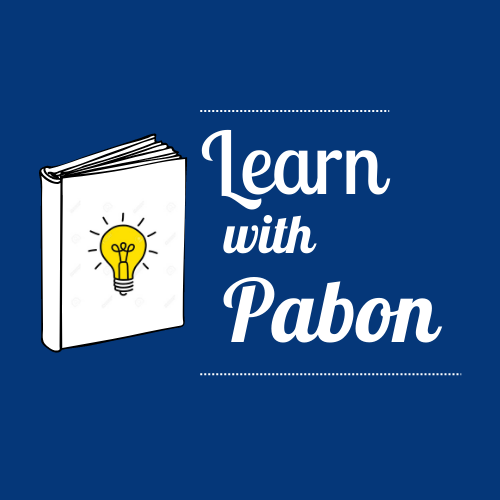
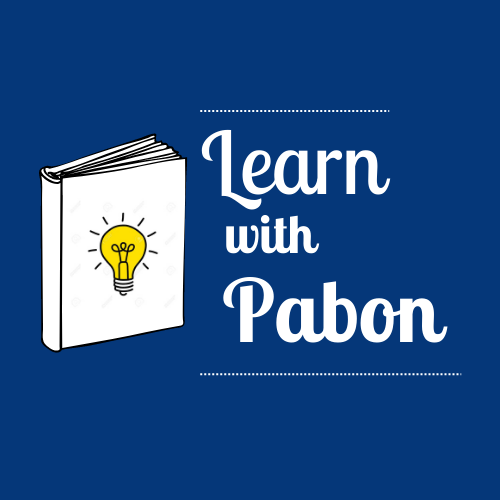
learning website

Changed region(s): [[0.45, 0.54, 0.9, 0.69], [0.45, 0.42, 0.66, 0.51]]

diff --git a/index.html b/index.html
@@ -15,6 +15,11 @@
     <link rel="preconnect" href="https://fonts.gstatic.com" crossorigin>
     <link href="https://fonts.googleapis.com/css2?family=Irish+Grover&family=Lobster&display=swap" rel="stylesheet">
     <link href="//fonts.googleapis.com/css2?family=Poppins:wght@400;500;600;700&amp;display=swap" rel="stylesheet">
+    <link rel="preconnect" href="https://fonts.googleapis.com">
+    <link rel="preconnect" href="https://fonts.gstatic.com" crossorigin>
+    <link
+        href="https://fonts.googleapis.com/css2?family=Lobster&family=Lobster+Two:wght@400;700&family=Manrope:wght@200&family=Shrikhand&display=swap"
+        rel="stylesheet">
     <title>Learn with Pabon</title>
     <script src="https://kit.fontawesome.com/00e221179d.js" crossorigin="anonymous"></script>
 </head>
@@ -99,7 +104,7 @@
                 </b>
                 </p>
                 <br><br>
-                <h6>Terms & Conditions | Refund Policy | Privacy Policy</h6>
+                <!-- <h6>Terms & Conditions | Refund Policy | Privacy Policy</h6> -->
             </div>
             <div class="col-md-6 pt-3">
                 <h4>Social Media</h4>

diff --git a/css/style.css b/css/style.css
@@ -47,11 +47,10 @@ body {
     font-size: 50px;
     font-family: 'Poppins', sans-serif;
     line-height: 80px;
-    /* font-family: 'Lobester', cursive; */
 }
 
 .banner h1 span {
-    /* font-family: 'Lobster'; */
+    /* font-family: 'Lobster Two'; */
 }
 
 .banner-icon {
@@ -90,7 +89,7 @@ p {
 }
 
 .contact h2 {
-    font-family: 'Lobster';
+    font-family: 'Lobster Two';
 }
 
 .contact .fa-solid,
@@ -105,7 +104,7 @@ p {
 .contact-icon {
     color: rgb(5, 55, 121);
     font-size: 25px;
-    margin: 100px 20px 20px 20px;
+    margin: 50px 20px 20px 10px;
 }
 
 .footer p {
